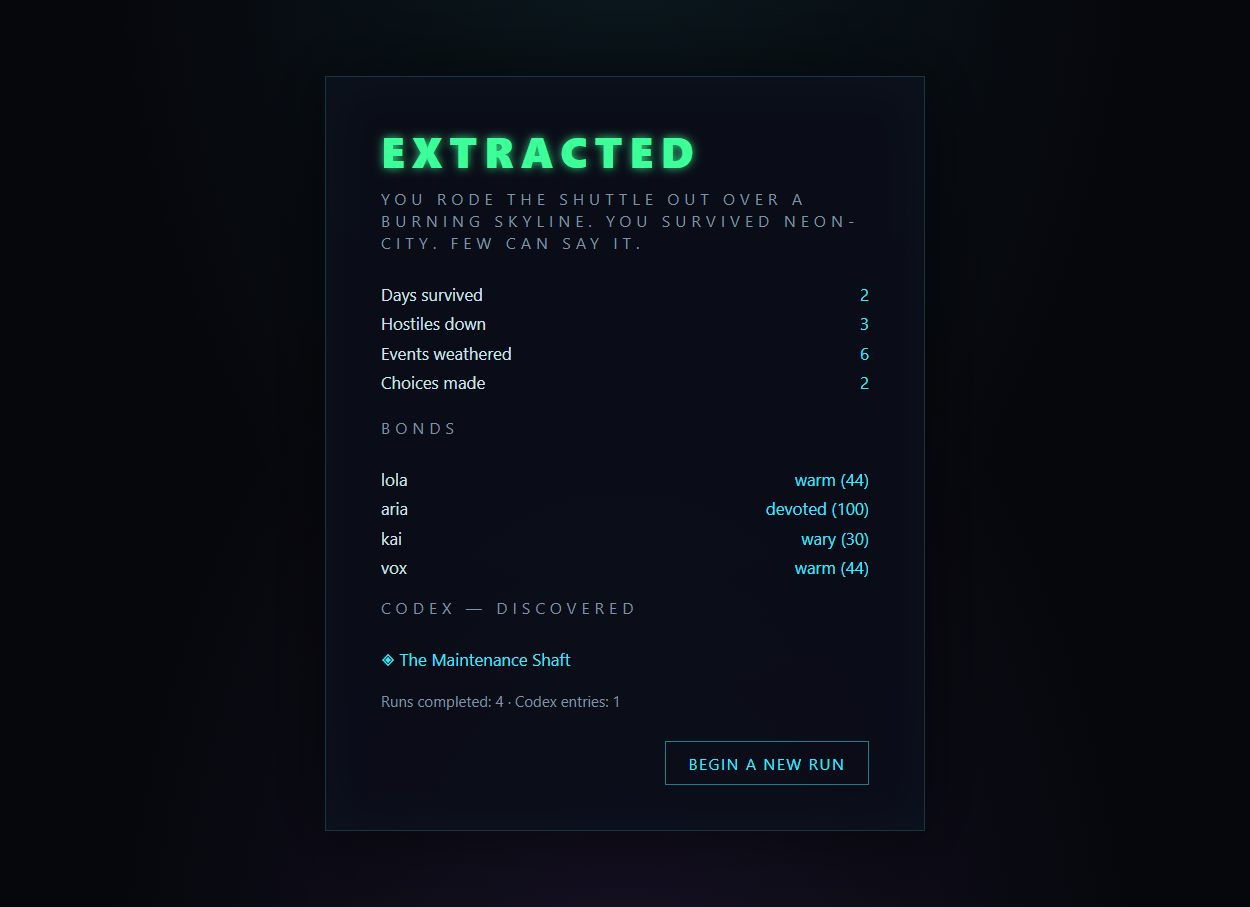
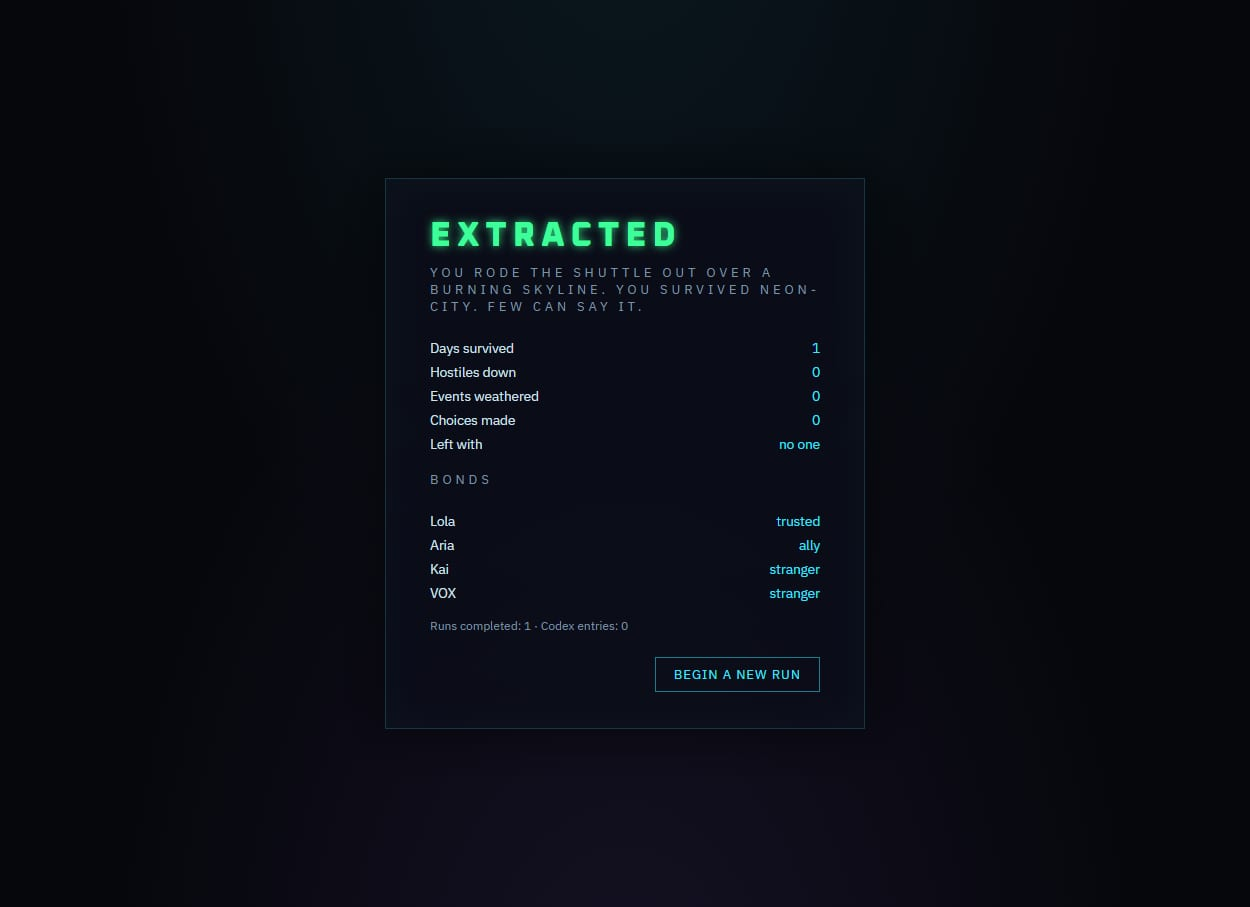
docs(screenshots): re-capture for the rail fix, bed two-shot, bond-tier summary
Every shot that shows the stat rail (03-06, 08, 09, 11, 12) was re-captured
after the header spacing fix. 12-bed-together is now both of you on the bed.
13-stay-the-night frames the narration line large and centred.
10-extraction-victory shows the bond tiers. I viewed each image. README:
every image is now tool-captured. The CHANGELOG rc.1 entry records the rail,
tone-lexicon and run-summary fixes.

diff --git a/CHANGELOG.md b/CHANGELOG.md
@@ -23,8 +23,9 @@ and adds a test that keeps it that way.
   AGENTS.md.
 - **New screenshots:** `01-main-menu`, `11-bond-rail` (all four bond tiers on
   the stat rail, with the "would follow you anywhere" toast), `12-bed-together`
-  (sitting on the bed with an ally beside you), `13-stay-the-night` (the fade
-  and its one narration line).
+  (you and an ally sitting side by side on the bed, from a cinematic
+  three-quarter camera), `13-stay-the-night` (the fade and its one narration
+  line, framed large and centred).
 
 ### Changed
 - **docs/ rewritten for bonds and the bed scene.** `docs/systems/characters-
@@ -36,10 +37,22 @@ and adds a test that keeps it that way.
   `camera.md`, `humanoid.md`, `scenario-toolkit.md`, `docs/config/chars.md`,
   the config and creation-kit guides, the demo script and the lmstudio-engine
   README no longer describe anything that was removed.
-- **Re-captured screenshots** `02` through `06`, `08` and `09` with the new
-  tool: all but the cutscene still showed the 12-stat rail with gate pips, and
-  `08` showed removed outfit and stat buttons in the Director's Cast tab.
-  `10-extraction-victory` is unchanged.
+- **Re-captured screenshots** `02` through `06` and `08` through `10` with the
+  new tool: all but the cutscene still showed the 12-stat rail with gate pips,
+  `08` showed removed outfit and stat buttons in the Director's Cast tab, and
+  `10` showed the old cold/wary/warm/devoted bond labels.
+- **The run summary's Bonds list speaks the bond tier.** The death/extraction
+  screen (`src/ui/deathScreen.js`) labelled bonds cold/wary/warm/devoted from
+  raw trust on thresholds of its own; it now shows each character's tier
+  (stranger / ally / trusted / loyal) as `endRun()` records it
+  (`summary.bondTiers`, from `src/chars/bond.js`, hysteresis included). Raw
+  trust is still recorded for meta history and the `vox_confided` unlock.
+- **All-audiences tone lexicon.** `src/dialogue/parser/tone.js` no longer
+  counts sexy, naughty, dirty, seduce, lips, skin, body, bed, hot, crave,
+  desire or touch as flirt, or kneel and strip as a command. Flirt is PG-13
+  only: kiss, flirt, tease, wink, charm, cute, pretty, handsome, gorgeous,
+  date, dance, blush, want, need, close, closer.
+- The stat rail is 200px wide (was 186px).
 - The music conductor's `intimacy` mood axis is now `closeness` — it only picks
   the lydian scale and a longer note decay.
 - Aria's background is consistent everywhere: the README cast table and two of
@@ -61,6 +74,10 @@ and adds a test that keeps it that way.
   game".
 - `migrate()` in `src/core/save.js` now says that it mutates the envelope in
   place and why that's safe (every caller passes a freshly parsed object).
+- The stat-rail header ran a character's name straight into their mood
+  ("Aria ChenWARM"): the bond chip's `margin-left: auto` inside a
+  `space-between` header ate every free pixel. The header now has a gap, the
+  name and chip never shrink, and a long mood ellipsises (full text on hover).
 
 ## [0.6.0-beta.1] — 2026-09-27 — The bed is just a bed
 

diff --git a/README.md b/README.md
@@ -81,7 +81,7 @@ generated or hand-authored**. The only third-party runtime dependency is three.j
   </tr>
 </table>
 
-<sub>All but the extraction screen are captured from the running game by <code>node tools/screenshots.mjs</code> — see <a href="docs/development.md">docs/development.md</a>.</sub>
+<sub>Every image is captured from the running game by <code>node tools/screenshots.mjs</code> — see <a href="docs/development.md">docs/development.md</a>.</sub>
 
 ---
 
